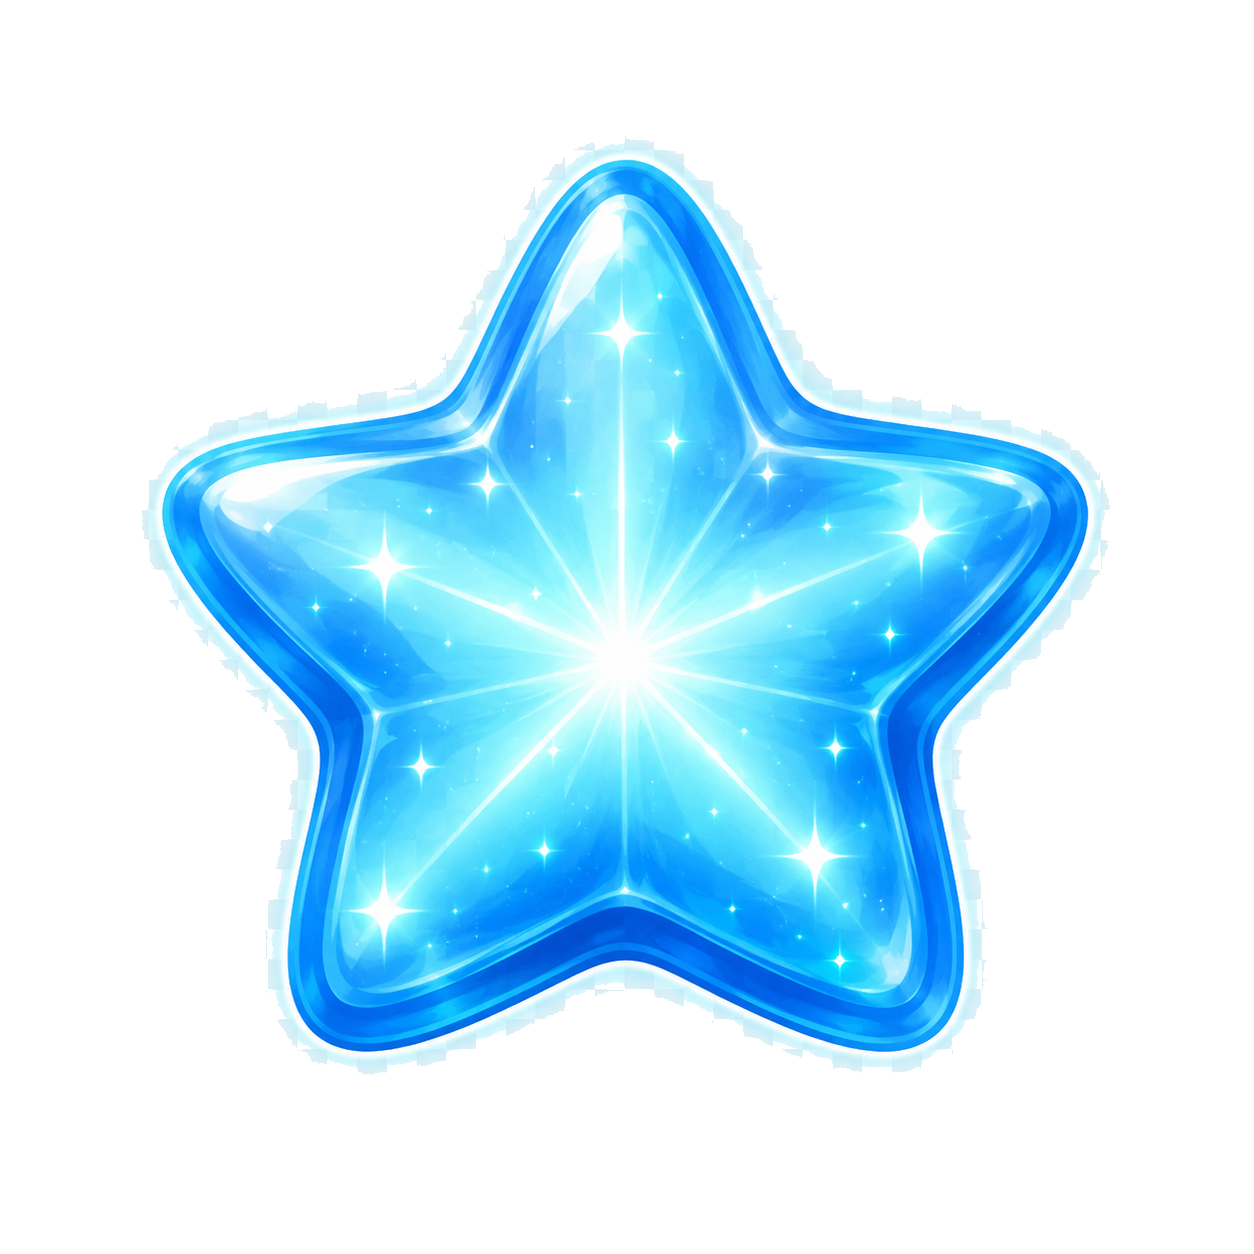
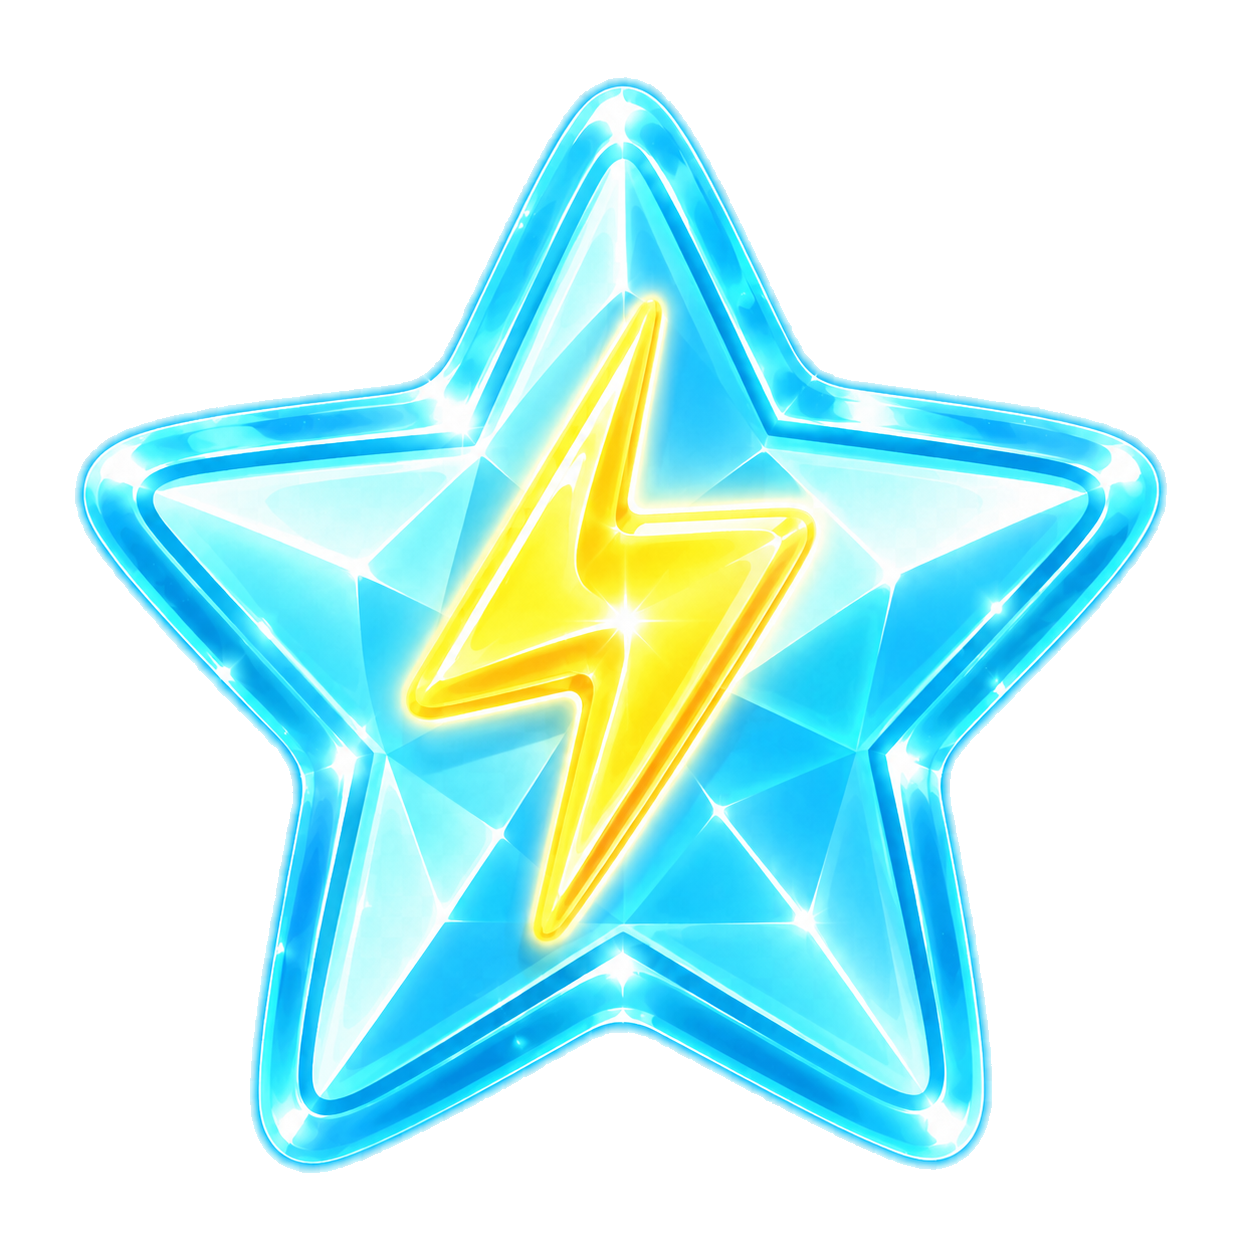
Fix energy star alpha and gameplay background

diff --git a/src/style.css b/src/style.css
@@ -46,10 +46,7 @@ button {
   padding: max(8px, env(safe-area-inset-top)) 10px calc(76px + env(safe-area-inset-bottom));
   overflow: hidden;
   color: #3d2362;
-  background:
-    linear-gradient(180deg, rgba(52, 166, 255, 0.82), rgba(191, 242, 255, 0.58) 38%, rgba(255, 195, 231, 0.34) 60%, rgba(78, 190, 210, 0.58) 100%),
-    radial-gradient(circle at 8% 72%, rgba(255, 98, 171, 0.34), transparent 5.5rem),
-    radial-gradient(circle at 96% 76%, rgba(255, 222, 91, 0.34), transparent 5.8rem);
+  background: url('./assets/backgrounds/gameplay_candyland_bg.png') center / cover no-repeat;
   box-shadow: 0 0 52px rgba(27, 52, 142, 0.34);
 }
 